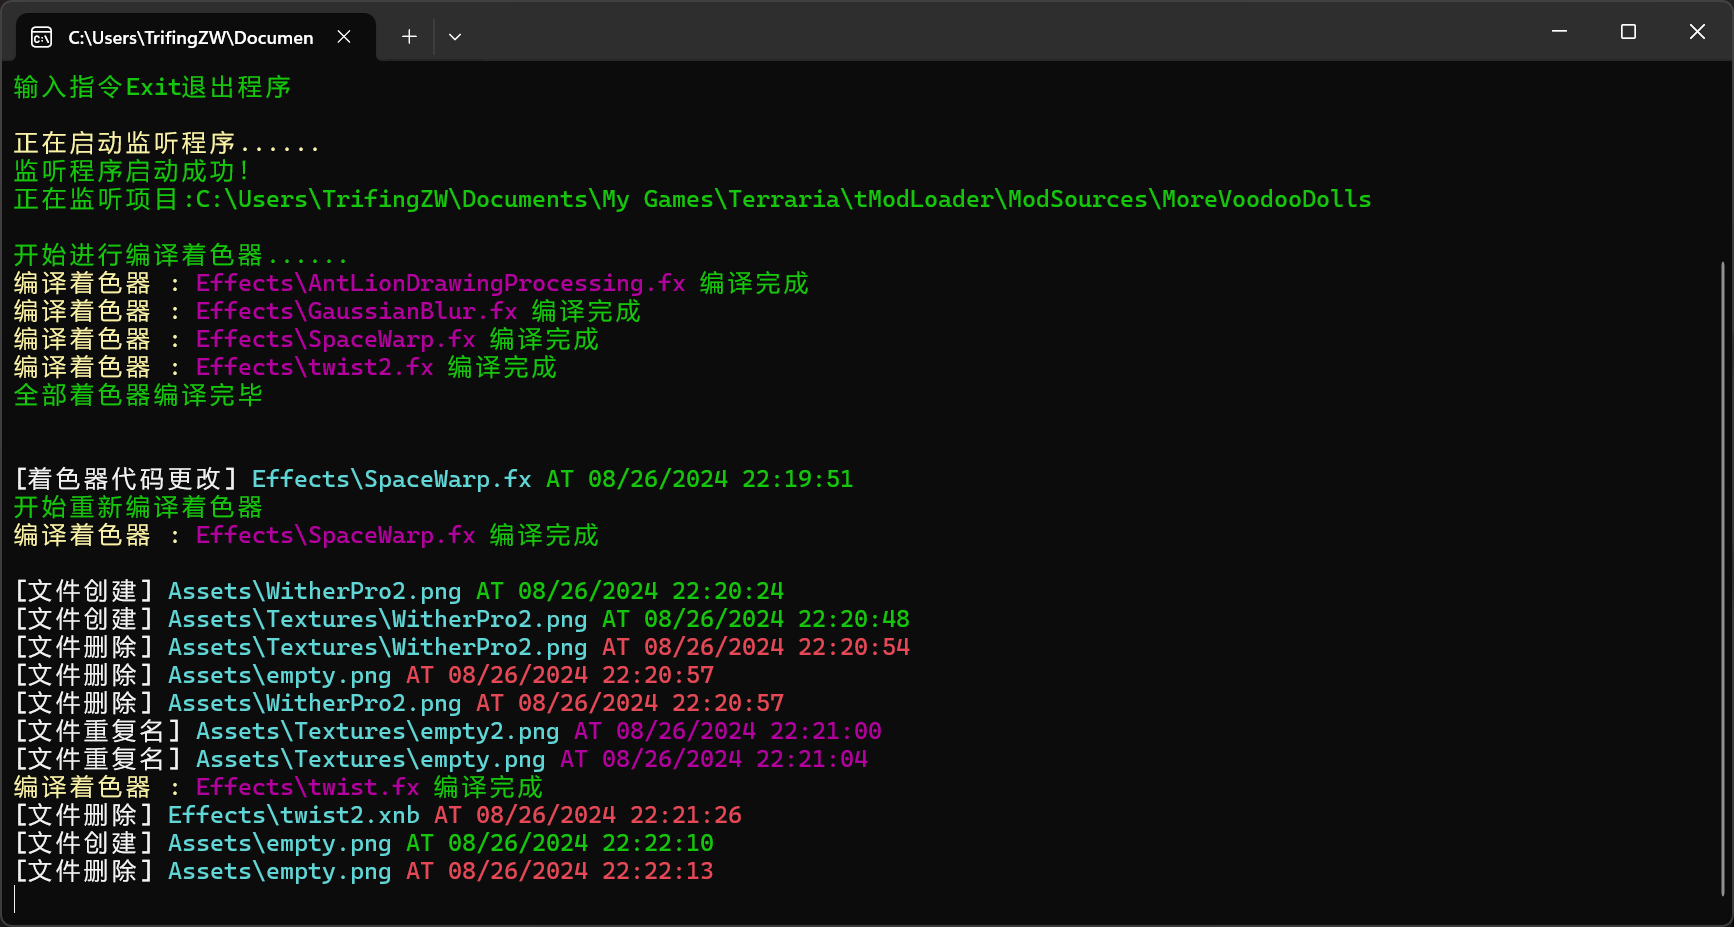
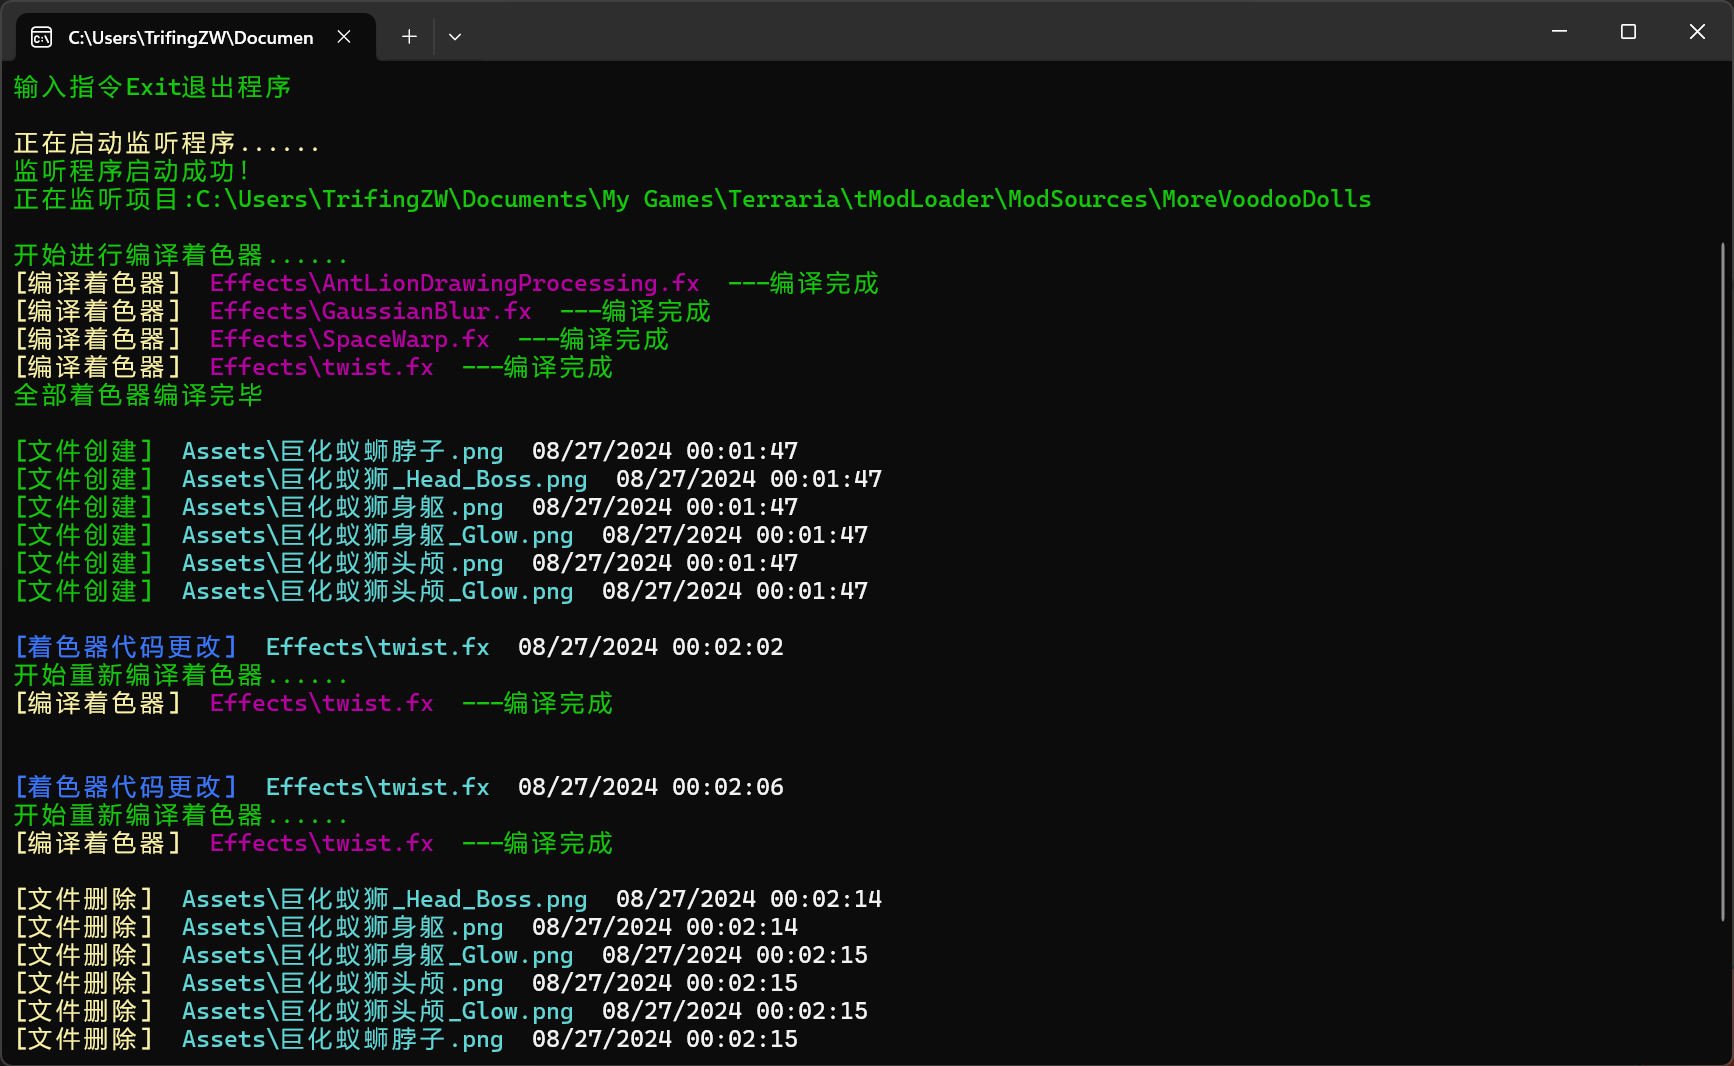
再次优化输出

Changed region(s): [[0.0, 0.0302, 1.0, 1.0], [0.218, 0.0302, 1.0, 0.0906]]

diff --git a/WatcherCore/Watcher.cs b/WatcherCore/Watcher.cs
@@ -107,7 +107,7 @@ public class Watcher(string filePath, bool snakeCase, bool generateExtension)
 
         // 启动进程
         Console.ForegroundColor = ConsoleColor.Yellow;
-        Console.Write("编译着色器 : ");
+        Console.Write("[编译着色器]  ");
         Console.ForegroundColor = ConsoleColor.Magenta;
         Console.Write(Path.GetRelativePath(FilePath, path));
 
@@ -122,7 +122,7 @@ public class Watcher(string filePath, bool snakeCase, bool generateExtension)
         // 等待进程完成
         process.WaitForExit();
         Console.ForegroundColor = ConsoleColor.Green;
-        Console.WriteLine(" 编译完成");
+        Console.WriteLine("  ---编译完成");
     }
 
     #region Callback
@@ -151,13 +151,14 @@ public class Watcher(string filePath, bool snakeCase, bool generateExtension)
         if (e.ChangeType == WatcherChangeTypes.Changed)
         {
             if (!e.FullPath.EndsWith(".fx")) return;
-            Console.ForegroundColor = ConsoleColor.White;
-            Console.Write("\n[着色器代码更改] ");
+            Console.ForegroundColor = ConsoleColor.Blue;
+            Console.Write("\n[着色器代码更改]  ");
             Console.ForegroundColor = ConsoleColor.Cyan;
             Console.Write(relativePath);
+            Console.ForegroundColor = ConsoleColor.White;
+            Console.WriteLine($"  {DateTime.Now}");
             Console.ForegroundColor = ConsoleColor.Green;
-            Console.WriteLine($" AT {DateTime.Now}");
-            Console.WriteLine("开始重新编译着色器");
+            Console.WriteLine("开始重新编译着色器......");
             //编译着色器
             CompileFx(e.FullPath);
             Console.WriteLine();
@@ -180,38 +181,38 @@ public class Watcher(string filePath, bool snakeCase, bool generateExtension)
         switch (e.ChangeType)
         {
             case WatcherChangeTypes.Created:
-                Console.ForegroundColor = ConsoleColor.White;
-                Console.Write("[文件创建] ");
+                Console.ForegroundColor = ConsoleColor.Green;
+                Console.Write("[文件创建]  ");
                 Console.ForegroundColor = ConsoleColor.Cyan;
                 Console.Write(relativePath);
-                Console.ForegroundColor = ConsoleColor.Green;
-                Console.WriteLine($" AT {DateTime.Now}");
+                Console.ForegroundColor = ConsoleColor.White;
+                Console.WriteLine($"  {DateTime.Now}");
                 break;
             case WatcherChangeTypes.Deleted:
-                Console.ForegroundColor = ConsoleColor.White;
-                Console.Write("[文件删除] ");
+                Console.ForegroundColor = ConsoleColor.Yellow;
+                Console.Write("[文件删除]  ");
                 Console.ForegroundColor = ConsoleColor.Cyan;
                 Console.Write(relativePath);
-                Console.ForegroundColor = ConsoleColor.Red;
-                Console.WriteLine($" AT {DateTime.Now}");
+                Console.ForegroundColor = ConsoleColor.White;
+                Console.WriteLine($"  {DateTime.Now}");
                 break;
             case WatcherChangeTypes.Renamed:
-                Console.ForegroundColor = ConsoleColor.White;
-                Console.Write("[文件重复名] ");
+                Console.ForegroundColor = ConsoleColor.Blue;
+                Console.Write("[文件重复名]  ");
                 Console.ForegroundColor = ConsoleColor.Cyan;
                 Console.Write(relativePath);
-                Console.ForegroundColor = ConsoleColor.Magenta;
-                Console.WriteLine($" AT {DateTime.Now}");
+                Console.ForegroundColor = ConsoleColor.White;
+                Console.WriteLine($"  {DateTime.Now}");
                 break;
             case WatcherChangeTypes.All:
                 break;
             default:
                 Console.ForegroundColor = ConsoleColor.Red;
-                Console.Write("[未知操作] ");
+                Console.Write("[未知操作]  ");
                 Console.ForegroundColor = ConsoleColor.Cyan;
                 Console.Write(relativePath);
-                Console.ForegroundColor = ConsoleColor.Red;
-                Console.WriteLine($" AT {DateTime.Now}");
+                Console.ForegroundColor = ConsoleColor.White;
+                Console.WriteLine($"  {DateTime.Now}");
                 break;
         }
     }
